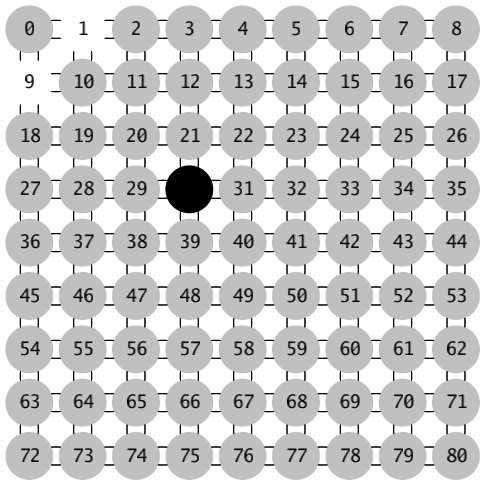
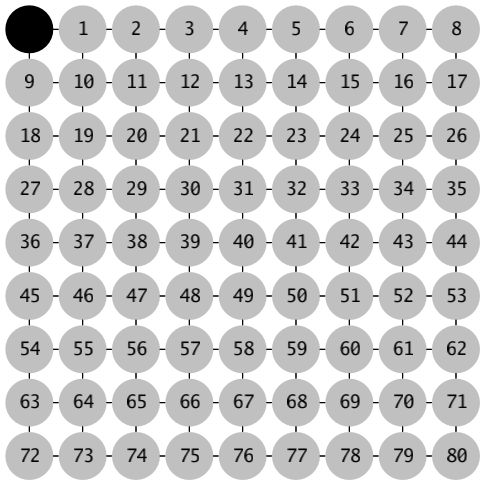
Fixed double edges in graphvizBoard.go

diff --git a/internal/game/graphvizBoard.go b/internal/game/graphvizBoard.go
@@ -65,19 +65,45 @@ func constructAllStones(gg GoGraph, g *cgraph.Graph) map[*node]*cgraph.Node {
 
 // constructAllEdges iterates the initEdges function over each *node in the GoGraph
 func constructAllEdges(gg GoGraph, t map[*node]*cgraph.Node, g *cgraph.Graph) {
+
+	edgeMade := make(map[string]bool)
+
 	for i := 0; i < len(gg.nodes); i++ {
 		n := gg.nodes[i]
-		initEdges(n, t, g)
+		for _, z := range n.neighbors {
+			// these strings will be used to check
+			// whether an edge has already been constructed or not.
+
+			edgeString1 := strconv.Itoa(z.id) + "," + strconv.Itoa(n.id)
+
+			edgeString2 := strconv.Itoa(n.id) + "," + strconv.Itoa(z.id)
+
+			if edgeMade[edgeString1] {
+				continue
+			} else {
+				s1 := t[n]
+				s2 := t[z]
+				edge, err := g.CreateEdge("some_name", s1, s2)
+				if err != nil {
+					log.Fatal(err)
+				}
+				edge.SetArrowHead("none")
+				edgeMade[edgeString1] = true
+				edgeMade[edgeString2] = true
+			}
+		}
+
 	}
 
 	return
 }
 
+/*
 // initEdges takes a GoGraph node pointer and our struct associating these node pointers to graphviz Nodes to construct an edge connecting each neighbor
 func initEdges(n *node, t map[*node]*cgraph.Node, g *cgraph.Graph) {
 	s1 := t[n]
 	var s2 *cgraph.Node
-	for _, z := range n.neighbors {
+	for z := range n.neighbors {
 		s2 = t[z]
 		edge, err := g.CreateEdge("some_name", s1, s2)
 		if err != nil {
@@ -88,6 +114,8 @@ func initEdges(n *node, t map[*node]*cgraph.Node, g *cgraph.Graph) {
 
 	return
 }
+
+*/
 
 func visualizeBoard(gg GoGraph) {
 
